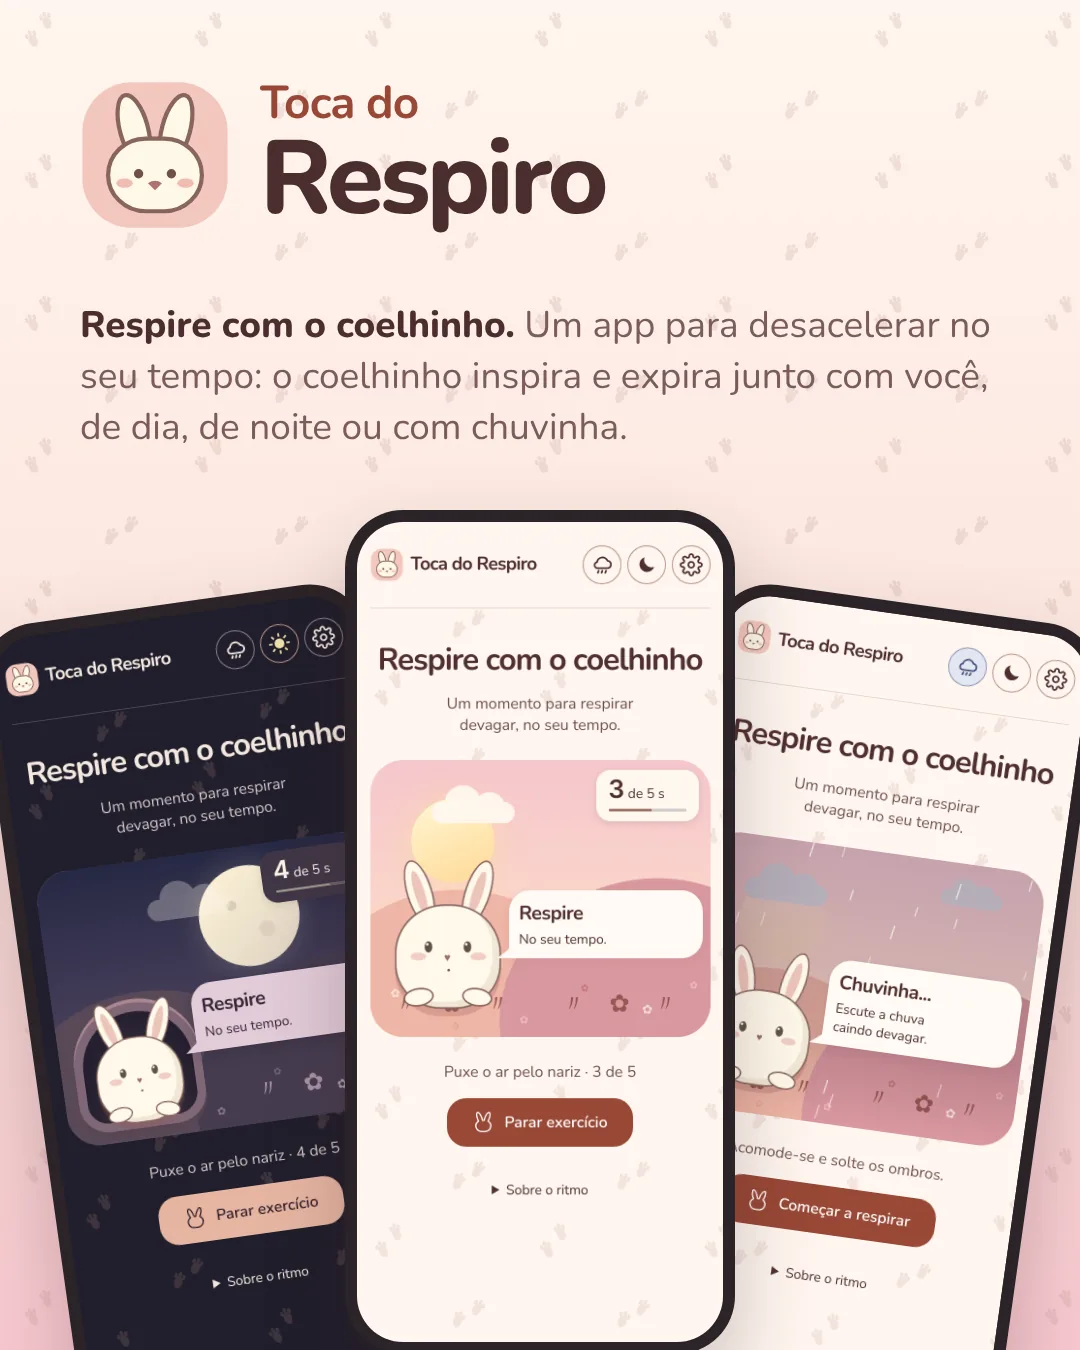
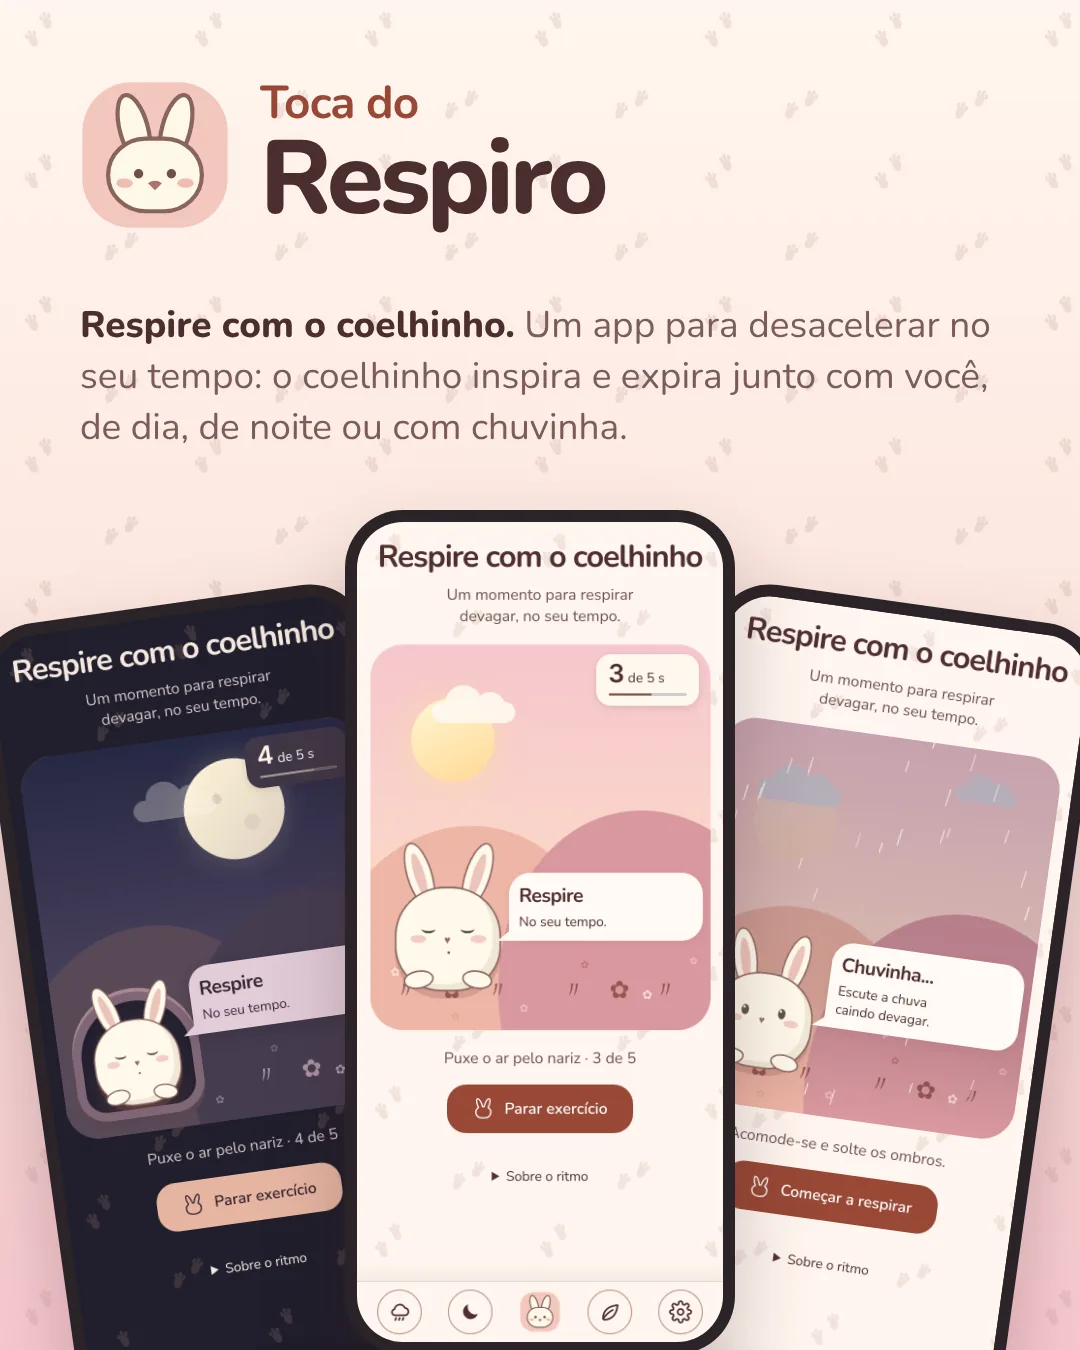
Toca do Respiro: versão nova do app (modo tranquilo, sons de fase, duração da sessão, menu embaixo)
Claude-Session: https://claude.ai/code/session_014axbJSoYuHZn8F5SUvTcGv

diff --git a/downloads/toca-do-respiro.html b/downloads/toca-do-respiro.html
@@ -138,14 +138,28 @@ main>h1,main>h1+p,footer{display:none}
 .speech h2{font-size:22px}.speech span{font-size:14px}
 .sun{left:9%;top:12%;width:110px}.moon{width:120px;right:auto;left:62%;top:8%}
 .hill{bottom:-60%}.far{bottom:-55%}
[1 lines of base64/hex data omitted]
-</div></main><dialog id="settingsDialog" aria-labelledby="settingsTitle"><div class="dialog-head"><h2 id="settingsTitle">Configurações</h2><button type="button" id="closeSettings" class="dialog-close" aria-label="Fechar">✕</button></div><div id="settings"><label class="tick-setting"><input type="checkbox" id="tickSound" checked><span class="sound-pill"><svg viewBox="0 0 24 24" width="23" height="23" fill="none" stroke="currentColor" stroke-width="1.8" stroke-linecap="round" stroke-linejoin="round" aria-hidden="true"><path d="M3 9h4l5-4v14l-5-4H3z"/><path class="waves" d="M16 8a6 6 0 0 1 0 8m3-11a10 10 0 0 1 0 14"/><path class="muted" d="m16 9 6 6m0-6-6 6"/></svg>Som do ritmo<span aria-hidden="true" class="sound-state"></span></span></label>
+}#settingsDialog .duration{border:0;padding:0;margin:12px 0 0;min-width:0}#settingsDialog .duration legend{padding:0;margin-bottom:6px}.duration-options{display:grid;grid-template-columns:repeat(3,1fr);gap:6px}.duration-options label{position:relative;cursor:pointer}.duration-options input{position:absolute;width:1px;height:1px;opacity:0}.duration-options span{display:grid;place-items:center;min-height:44px;padding:4px 6px;text-align:center;line-height:1.15;font-size:14px;font-weight:600;border:1px solid #ba9386;border-radius:16px;background:#fff8f2;color:#704438}.duration-options input:checked+span{background:#f7dfd3;border-color:#984836;box-shadow:inset 0 0 0 1px #984836}.duration-options input:focus-visible+span{outline:3px solid currentColor;outline-offset:2px}.night .duration-options span{background:#39313f;color:#f7e7df;border-color:#957d87}.night .duration-options input:checked+span{background:#57404a;border-color:#e6b5a2;box-shadow:inset 0 0 0 1px #e6b5a2}.flowers{position:absolute;inset:auto 0 0;height:52%;pointer-events:none}.fl{position:absolute;font-style:normal;line-height:1;opacity:.75;transform-origin:50% 80%}.fl.a{color:#fff6ec}.fl.b{color:#b9686a}.fl.c{color:#f7c9cf}.fl.d{color:#e8a07e}.night .fl.a{color:#cfc3d6}.night .fl.b{color:#8d6f88}.night .fl.c{color:#a98aa5}.night .fl.d{color:#9c7d8f}@media(prefers-reduced-motion:no-preference){.fl{animation:sway 4.5s ease-in-out var(--d) infinite alternate}@keyframes sway{from{rotate:-8deg}to{rotate:8deg}}}#settingsDialog .sound-options{border:0;padding:0;margin:4px 0 6px;min-width:0}#settingsDialog .sound-options legend{padding:0;margin-bottom:6px}.sound-toggles{display:grid;grid-template-columns:1fr 1fr;gap:8px}#settingsDialog .sound-toggles .tick-setting{margin:0;justify-self:stretch}.sound-toggles .sound-pill{width:100%;height:100%;padding:8px 12px;gap:8px;font-size:14px;line-height:1.2;border-radius:18px}.sound-toggles .sound-pill svg{flex:none}.pill-text{display:flex;flex-direction:column}.pill-text .sound-state{font-size:12px;opacity:.85}.quiet-btn{order:2}.quiet-btn[aria-pressed=true]{background:#f7dfd3;border-color:#b67965;color:#704438}.night .quiet-btn[aria-pressed=true]{background:#57404a;border-color:#be9693;color:#f7e7df}
+.quiet .phase-meter{display:none}.quiet .cloud-path{animation-play-state:paused}.quiet.in-session #words{display:none}.quiet.in-session #hint{visibility:hidden}.quiet .speech h2{font-size:28px}
+@media not all and (orientation:landscape) and (max-height:520px){
+header,.night header{position:fixed;top:auto;bottom:0;left:0;right:0;z-index:20;width:100%;margin:0;padding:8px max(16px,env(safe-area-inset-right,0px),calc(50% - 240px)) max(8px,env(safe-area-inset-bottom,0px)) max(16px,env(safe-area-inset-left,0px),calc(50% - 240px));border-bottom:0;border-top:1px solid #ebd5ce;clip-path:none;box-shadow:0 -6px 18px #502f3112;display:flex;flex-wrap:nowrap;justify-content:space-around;align-items:center;gap:6px}
+.night header{border-top-color:#514251;box-shadow:0 -6px 18px #0000002e}
+header .brand{flex:none;margin:0;font-size:0;gap:0;max-width:none}header .brand img{width:42px;height:42px}
+header .gear,header #nightToggle.gear{width:46px;height:46px}
+header .rain-btn{order:0}header #nightToggle.gear{order:1}header .brand{order:2}header .quiet-btn{order:3}header #openSettings{order:4}
+body{padding-bottom:calc(72px + env(safe-area-inset-bottom,0px))}
+main{padding-top:max(18px,env(safe-area-inset-top,0px))}
+main>h1+p{margin:10px 0 0}.scene{margin:18px auto}
+}
+@media not all and (orientation:landscape) and (max-height:520px){@media(max-width:600px){.scene{height:clamp(285px,47vh,420px)}}}
[1 lines of base64/hex data omitted]
+</div></main><dialog id="settingsDialog" aria-labelledby="settingsTitle"><div class="dialog-head"><h2 id="settingsTitle">Configurações</h2><button type="button" id="closeSettings" class="dialog-close" aria-label="Fechar">✕</button></div><div id="settings"><fieldset class="sound-options"><legend>Sons</legend><div class="sound-toggles"><label class="tick-setting"><input type="checkbox" id="phaseSound" checked><span class="sound-pill"><svg viewBox="0 0 24 24" width="23" height="23" fill="none" stroke="currentColor" stroke-width="1.8" stroke-linecap="round" stroke-linejoin="round" aria-hidden="true"><path d="M3 9h4l5-4v14l-5-4H3z"/><path class="waves" d="M16 8a6 6 0 0 1 0 8m3-11a10 10 0 0 1 0 14"/><path class="muted" d="m16 9 6 6m0-6-6 6"/></svg><span class="pill-text">Inspirar e expirar<span aria-hidden="true" class="sound-state"></span></span></span></label><label class="tick-setting"><input type="checkbox" id="tickSound" checked><span class="sound-pill"><svg viewBox="0 0 24 24" width="23" height="23" fill="none" stroke="currentColor" stroke-width="1.8" stroke-linecap="round" stroke-linejoin="round" aria-hidden="true"><path d="M3 9h4l5-4v14l-5-4H3z"/><path class="waves" d="M16 8a6 6 0 0 1 0 8m3-11a10 10 0 0 1 0 14"/><path class="muted" d="m16 9 6 6m0-6-6 6"/></svg><span class="pill-text">Tic por segundo<span aria-hidden="true" class="sound-state"></span></span></span></label></div></fieldset>
 
  <label for="pace">Tempo para inspirar e para expirar</label>
  <input id="pace" type="range" min="3" max="15" step="1" value="5"><output id="paceValue" for="pace">5 segundos por fase</output>
+ <fieldset class="duration"><legend>Duração da sessão</legend><div class="duration-options"><label><input type="radio" name="duration" value="1"><span>1 minuto</span></label><label><input type="radio" name="duration" value="3"><span>3 minutos</span></label><label><input type="radio" name="duration" value="0" checked><span>Tempo livre</span></label></div></fieldset>
  <label for="rainVolume">Volume da chuva</label>
  <input id="rainVolume" type="range" min="0" max="100" step="5" value="40">
-</div><button type="button" id="doneSettings" class="dialog-done">Pronto</button></dialog><footer><details id="ajuda"><summary>Sobre o ritmo</summary><p>O coelhinho dedica o mesmo tempo à inspiração e à expiração. Acompanhe até onde for confortável, sem forçar. Você pode parar quando quiser.</p><a target="_blank" rel="noopener" href="https://www.nhs.uk/mental-health/self-help/guides-tools-and-activities/breathing-exercises-for-stress/">Orientações de respiração do NHS</a></details></footer>
+</div><button type="button" id="doneSettings" class="dialog-done">Pronto</button></dialog><footer><details id="ajuda"><summary>Sobre o ritmo</summary><p>O coelhinho dedica o mesmo tempo à inspiração e à expiração. Acompanhe até onde for confortável, sem forçar. Você pode parar quando quiser.</p><p>Para respirar de olhos fechados, dois sons suaves marcam as mudanças de fase: um tom que sobe para inspirar e outro que desce para expirar. O tic por segundo pode ser desligado separadamente em Configurações.</p><a target="_blank" rel="noopener" href="https://www.nhs.uk/mental-health/self-help/guides-tools-and-activities/breathing-exercises-for-stress/">Orientações de respiração do NHS</a></details></footer>
 <script>
 const rabbit=document.querySelector('.rabbit'), phase=document.querySelector('#phase'), hint=document.querySelector('#hint'), button=document.querySelector('#toggle');
 const toggleLabel = document.querySelector("#toggleLabel");
@@ -204,10 +218,13 @@ const beat = document.querySelector('#beat');
 const beatLimit = document.querySelector('#beatLimit');
 const beatBar = document.querySelector('#beatBar');
 const tickSound = document.querySelector('#tickSound');
+const phaseSound = document.querySelector('#phaseSound');
 try { tickSound.checked = localStorage.getItem('toca.sound') !== 'off'; } catch {}
+try { phaseSound.checked = localStorage.getItem('toca.phaseSound') !== 'off'; } catch {}
 let audio;
+function anySound() { return tickSound.checked || phaseSound.checked; }
 function enableAudio() {
- if (!tickSound.checked || !window.AudioContext) return;
+ if (!anySound() || !window.AudioContext) return;
  try {
   audio ??= new AudioContext();
   if (audio.state !== 'running') audio.resume().catch(() => {});
@@ -217,13 +234,39 @@ tickSound.onchange = () => {
  enableAudio();
  try { localStorage.setItem('toca.sound', tickSound.checked ? 'on' : 'off'); } catch {}
 };
+phaseSound.onchange = () => {
+ enableAudio();
+ try { localStorage.setItem('toca.phaseSound', phaseSound.checked ? 'on' : 'off'); } catch {}
+};
+// Tom suave que sobe (inspirar) ou desce (expirar), para acompanhar de olhos fechados.
+function playPhaseTone(rising) {
+ if (!phaseSound.checked || !audio) return;
+ try {
+  const t = audio.currentTime + .01, low = 293.66, high = 440, glide = .75, end = 1.15;
+  [1, 2].forEach((harmonic, i) => {
+   const osc = audio.createOscillator(), gain = audio.createGain();
+   osc.type = 'sine';
+   osc.frequency.setValueAtTime((rising ? low : high) * harmonic, t);
+   osc.frequency.exponentialRampToValueAtTime((rising ? high : low) * harmonic, t + glide);
+   const peak = i ? .012 : .06;
+   gain.gain.setValueAtTime(.0001, t);
+   gain.gain.exponentialRampToValueAtTime(peak, t + .12);
+   gain.gain.setValueAtTime(peak, t + glide - .15);
+   gain.gain.exponentialRampToValueAtTime(.0001, t + end);
+   osc.connect(gain); gain.connect(audio.destination);
+   osc.onended = () => { osc.disconnect(); gain.disconnect(); };
+   osc.start(t); osc.stop(t + end + .02);
+  });
+ } catch {}
+}
 function playTick(countdownSeconds = 0) {
- if (!tickSound.checked || !audio) return;
+ if (!audio || !(countdownSeconds ? anySound() : tickSound.checked)) return;
+ try {
  const time = audio.currentTime;
  const tone = audio.createOscillator();
  const volume = audio.createGain();
  const duration = countdownSeconds ? .28 : .055;
- const pitch = countdownSeconds ? [0, 523.25, 440, 349.23][countdownSeconds] : 820;
+ const pitch = countdownSeconds ? ([0, 523.25, 440, 349.23][countdownSeconds] || 523.25) : 820;
  tone.frequency.setValueAtTime(pitch, time);
  if (!countdownSeconds) tone.frequency.exponentialRampToValueAtTime(540, time + .045);
  volume.gain.setValueAtTime(.0001, time);
@@ -234,12 +277,43 @@ function playTick(countdownSeconds = 0) {
  tone.onended = () => { tone.disconnect(); volume.disconnect(); };
  tone.start(time);
  tone.stop(time + duration + .005);
+ } catch {}
 }
-let lastSecond = -1;
+const durationInputs = [...document.querySelectorAll('input[name=duration]')];
+try {
+ const savedDuration = localStorage.getItem('toca.duration');
+ const match = durationInputs.find(input => input.value === savedDuration);
+ if (match) match.checked = true;
+} catch {}
+durationInputs.forEach(input => input.onchange = () => {
+ try { localStorage.setItem('toca.duration', input.value); } catch {}
+});
+function chosenMinutes() {
+ return Number(durationInputs.find(input => input.checked)?.value || 0);
+}
+let sessionMs = 0, finishing = false;
+function playEndChime() {
+ if (!anySound() || !audio) return;
+ try {
+  const t0 = audio.currentTime + .05;
+  [523.25, 659.25, 783.99].forEach((freq, i) => {
+   const t = t0 + i * .22, osc = audio.createOscillator(), gain = audio.createGain();
+   osc.type = 'sine';
+   osc.frequency.setValueAtTime(freq, t);
+   gain.gain.setValueAtTime(.0001, t);
+   gain.gain.exponentialRampToValueAtTime(.05, t + .03);
+   gain.gain.exponentialRampToValueAtTime(.0001, t + 1.2);
+   osc.connect(gain); gain.connect(audio.destination);
+   osc.onended = () => { osc.disconnect(); gain.disconnect(); };
+   osc.start(t); osc.stop(t + 1.25);
+  });
+ } catch {}
+}
+let lastSecond = -1, phaseToned = false;
 let cycle = 0;
 function tick(now){
  if (countdownEnd !== null) {
-  const seconds = Math.ceil((countdownEnd - now) / 1000);
+  const seconds = Math.min(3, Math.ceil((countdownEnd - now) / 1000));
   if (seconds > 0) {
    const title = String(seconds);
    if (countdown.textContent !== title) { countdown.textContent = title; playTick(seconds); }
@@ -248,23 +322,33 @@ function tick(now){
   }
   hideCountdown();
   start = now;
+  sessionMs = chosenMinutes() * 60000;
+  finishing = false;
   rabbit.classList.add('breathing');
+  document.documentElement.classList.add('in-session');
+  rabbit.classList.remove('awake');
   toggleLabel.textContent = 'Parar exercício';
  }
  const elapsed=Math.max(0,now-start)%(2*phaseMs);
  const inhale=elapsed<phaseMs;
- const title=inhale?'Respire':'Expire';
+ const title=inhale?(quiet?'Inspire':'Respire'):'Expire';
+ if (sessionMs && now - start >= sessionMs) finishing = true;
+ if (finishing && inhale && phase.textContent === 'Expire') { stopSession(true); return; }
  if (phase.textContent !== title) {
   if (inhale && phase.textContent === 'Expire') cycle++;
   const lines = inhale ? phrases.inhale : phrases.exhale;
   phase.textContent = title;
   words.textContent = lines[cycle % lines.length];
+  playPhaseTone(inhale);
+  phaseToned = true;
  }
  const second = 1 + Math.floor(elapsed % phaseMs / 1000);
  if (second !== lastSecond) {
   lastSecond = second;
-  playTick();
+  // Na virada de fase o tom de inspirar/expirar substitui o tic.
+  if (!(phaseToned && phaseSound.checked)) playTick();
  }
+ phaseToned = false;
  const secondsPerPhase = phaseMs / 1000;
  const instruction = (inhale ? 'Puxe o ar pelo nariz' : 'Solte o ar pela boca');
  const accessibleHint = instruction + ' · ' + second + ' de ' + secondsPerPhase;
@@ -288,6 +372,20 @@ function tick(now){
  });
  frame=requestAnimationFrame(tick);
 }
+function stopSession(completed) {
+ hideCountdown();
+ finishing = false;
+ document.documentElement.classList.remove('in-session');
+ meter.hidden = true; cancelAnimationFrame(frame);rabbit.classList.add('awake');rabbit.classList.remove('breathing');rabbit.style.removeProperty('--mouth');puffs.forEach(p=>p.style.opacity=0);start=null;rabbit.style.removeProperty('--breath');rabbit.style.transform='none';hint.textContent='Volte a respirar naturalmente.';toggleLabel.textContent='Respirar de novo';
+ if (completed) {
+  phase.textContent = 'Terminamos por aqui.';
+  words.textContent = 'Pode voltar ao seu ritmo.';
+  playEndChime();
+ } else {
+  phase.textContent = 'No seu tempo';
+  words.textContent = ['Estou aqui se quiser recomeçar.','Que bom que você tirou esse tempo.','Você cuidou de si agora. Isso importa.','Volte sempre que precisar.'][Math.floor(Math.random()*4)];
+ }
+}
 button.onclick=()=>{
  if (start === null && countdownEnd === null) {
   const now = performance.now();
@@ -302,8 +400,7 @@ button.onclick=()=>{
   tick(now);
   return;
  }
- hideCountdown();
- meter.hidden = true; cancelAnimationFrame(frame);rabbit.classList.add('awake');rabbit.classList.remove('breathing');rabbit.style.removeProperty('--mouth');puffs.forEach(p=>p.style.opacity=0);start=null;rabbit.style.removeProperty('--breath');words.textContent=['Estou aqui se quiser recomeçar.','Que bom que você tirou esse tempo.','Você cuidou de si agora. Isso importa.','Volte sempre que precisar.'][Math.floor(Math.random()*4)];rabbit.style.transform='none';phase.textContent='No seu tempo';hint.textContent='Volte a respirar naturalmente.';toggleLabel.textContent='Respirar de novo';
+ stopSession(false);
 };
 
 const nightToggle = document.querySelector('#nightToggle');
@@ -437,4 +534,25 @@ if (!reduced.matches) {
  setTimeout(finishOpening, 1300);
  button.addEventListener('click', finishOpening, { once: true });
 }const settingsDialog=document.querySelector('#settingsDialog');document.querySelector('#openSettings').onclick=()=>settingsDialog.showModal();document.querySelector('#closeSettings').onclick=()=>settingsDialog.close();document.querySelector('#doneSettings').onclick=()=>settingsDialog.close();settingsDialog.addEventListener('click',e=>{if(e.target===settingsDialog)settingsDialog.close();});
+
+const quietToggle=document.querySelector('#quietToggle');
+let quiet=false;
+function setQuiet(on){
+ quiet=on;
+ document.documentElement.classList.toggle('quiet',on);
+ quietToggle.setAttribute('aria-pressed',String(on));
+ quietToggle.setAttribute('aria-label',on?'Desligar modo tranquilo':'Ligar modo tranquilo');
+ // Troca a palavra na hora, sem reiniciar a fase.
+ if(start!==null&&(phase.textContent==='Respire'||phase.textContent==='Inspire'))phase.textContent=on?'Inspire':'Respire';
+}
+try{quiet=localStorage.getItem('toca.quiet')==='true';}catch{}
+setQuiet(quiet);
+quietToggle.onclick=()=>{
+ setQuiet(!quiet);
+ try{localStorage.setItem('toca.quiet',String(quiet));}catch{}
+ if(start===null&&countdownEnd===null){
+  if(quiet){phase.textContent='Modo tranquilo';words.textContent='Sem números. Só eu e a palavra.';}
+  else{phase.textContent='Vamos respirar?';words.textContent='Eu acompanho você.';}
+ }
+};
 </script></html>

diff --git a/data.js b/data.js
@@ -150,13 +150,13 @@ window.SITE = {
     toca: {
       name: 'Toca do Respiro', eyebrow: 'Case · App mobile',
       who: 'Respire com o coelhinho.',
-      lede: 'O Toca do Respiro nasceu dentro de casa. Criei o app para a minha namorada, que convive com o <strong>TAG (Transtorno de Ansiedade Generalizada)</strong>, para ter um lugar calmo nas horas em que a ansiedade aperta. No caminho percebi que ele podia ajudar muita gente que passa pelo mesmo, e transformei o projeto num <strong>app gratuito, sem anúncios e sem nenhuma monetização</strong>.<br><br>A ideia é simples: um <strong>coelhinho que respira junto</strong> com você. A barriga cresce na inspiração, o ar sai em nuvenzinhas na expiração e frases curtas acolhem a cada ciclo, lembrando que está tudo bem ir no seu tempo. Não tem cadastro, metas nem cobrança: só respirar.<br><br>Dá para trocar o dia pela <strong>noite</strong> (o coelhinho vai para a toca), ligar uma <strong>chuvinha com som</strong> e ajustar de 3 a 15 segundos por fase. Cores suaves, letras arredondadas e sons gerados no próprio app foram escolhidos para acalmar, não para prender a atenção. Feito para o celular Android, também funciona com a tela deitada.',
-      facts: [['Cliente', 'Projeto pessoal · app gratuito'], ['Para quem', 'Pessoas que convivem com ansiedade'], ['Plataformas', 'App mobile (Android) e web'], ['Entregas', 'Marca e mascote, cena animada de dia e de noite, exercício guiado com contagem, chuva com som gerado no app, configurações de ritmo e som, versão deitada'], ['Ano', '2026']],
+      lede: 'O Toca do Respiro nasceu dentro de casa. Criei o app para a minha namorada, que convive com o <strong>TAG (Transtorno de Ansiedade Generalizada)</strong>, para ter um lugar calmo nas horas em que a ansiedade aperta. No caminho percebi que ele podia ajudar muita gente que passa pelo mesmo, e transformei o projeto num <strong>app gratuito, sem anúncios e sem nenhuma monetização</strong>.<br><br>A ideia é simples: um <strong>coelhinho que respira junto</strong> com você. A barriga cresce na inspiração, o ar sai em nuvenzinhas na expiração e frases curtas acolhem a cada ciclo, lembrando que está tudo bem ir no seu tempo. Não tem cadastro, metas nem cobrança: só respirar.<br><br>Dá para trocar o dia pela <strong>noite</strong> (o coelhinho vai para a toca), ligar uma <strong>chuvinha com som</strong>, ajustar de 3 a 15 segundos por fase e escolher sessões de 1 ou 3 minutos. O <strong>modo tranquilo</strong> tira os textos da tela durante o exercício, e dois tons suaves (um que sobe para inspirar e outro que desce para expirar) permitem respirar <strong>de olhos fechados</strong>. Cores suaves, letras arredondadas e sons gerados no próprio app foram escolhidos para acalmar, não para prender a atenção. Feito para o celular Android, também funciona com a tela deitada.',
+      facts: [['Cliente', 'Projeto pessoal · app gratuito'], ['Para quem', 'Pessoas que convivem com ansiedade'], ['Plataformas', 'App mobile (Android) e web'], ['Entregas', 'Marca e mascote, cena animada de dia e de noite, exercício guiado com contagem, sessões de 1 ou 3 minutos, modo tranquilo, sons para respirar de olhos fechados, chuva com som gerado no app, versão deitada'], ['Ano', '2026']],
       bg: '#4c2e30', accent: '#984836', status: '#fff6ef', brand: 'marca',
       actions: [['Baixar o app', 'downloads/toca-do-respiro.html', 'download'], ['Usar online', 'downloads/toca-do-respiro.html', 'external']],
       actionsNote: 'Gratuito e sem anúncios. O arquivo abre em qualquer navegador, no celular ou no computador, e funciona sem internet.',
       phone: [
-        ['inicio', 'Boas-vindas', 'Na primeira visita o coelhinho cumprimenta e convida para respirar.'],
+        ['inicio', 'Boas-vindas', 'Na primeira visita o coelhinho cumprimenta e convida para respirar. Os botões ficam embaixo, ao alcance do polegar.'],
         ['contagem', 'Contagem', 'Três segundos para se acomodar antes de começar.'],
         ['respire', 'Respire', 'O coelhinho enche a barriga e o contador marca cada segundo.'],
         ['expire', 'Expire', 'O ar sai pela boca em nuvenzinhas, com uma frase de apoio.'],
@@ -164,7 +164,9 @@ window.SITE = {
         ['chuva', 'Chuvinha', 'O céu fecha, a chuva cai na cena e o som de chuva começa devagar.'],
         ['noite', 'Modo noite', 'A lua sobe e o coelhinho vai para a toca.'],
         ['noite-respire', 'Respirar à noite', 'O mesmo exercício com as cores da noite.'],
-        ['configuracoes', 'Configurações', 'Som do ritmo, segundos por fase e volume da chuva.']
+        ['tranquilo', 'Modo tranquilo', 'Durante o exercício fica só o coelhinho e uma palavra: inspire ou expire.'],
+        ['terminamos', 'Fim da sessão', 'Ao fim de 1 ou 3 minutos, um acorde suave avisa que a sessão terminou.'],
+        ['configuracoes', 'Configurações', 'Sons de inspirar e expirar, tic por segundo, tempo por fase, duração da sessão e volume da chuva.']
       ]
     },
     precisa: {

diff --git a/deluccky.html b/deluccky.html
@@ -126,7 +126,7 @@
 </dialog>
 
 <script src="https://cdnjs.cloudflare.com/ajax/libs/three.js/r128/three.min.js" defer></script>
-<script src="data.js?v=20261111a" defer></script>
+<script src="data.js?v=20261112a" defer></script>
 <script src="app.js?v=20261111a" defer></script>
 <script src="deluccky.js?v=20261111a" defer></script>
 </body>

diff --git a/app.html b/app.html
@@ -143,7 +143,7 @@
 </dialog>
 
 <script src="https://cdnjs.cloudflare.com/ajax/libs/three.js/r128/three.min.js" defer></script>
-<script src="data.js?v=20261111a" defer></script>
+<script src="data.js?v=20261112a" defer></script>
 <script src="appcase.js?v=20261111a" defer></script>
 <script src="app.js?v=20261111a" defer></script>
 </body>

diff --git a/blocko.html b/blocko.html
@@ -404,7 +404,7 @@
 </dialog>
 
 <script src="https://cdnjs.cloudflare.com/ajax/libs/three.js/r128/three.min.js" defer></script>
-<script src="data.js?v=20261111a" defer></script>
+<script src="data.js?v=20261112a" defer></script>
 <script src="app.js?v=20261111a" defer></script>
 <script src="blocko.js?v=20261111a" defer></script>
 </body>

diff --git a/sobre.html b/sobre.html
@@ -132,7 +132,7 @@
 </dialog>
 
 <script src="https://cdnjs.cloudflare.com/ajax/libs/three.js/r128/three.min.js" defer></script>
-<script src="data.js?v=20261111a" defer></script>
+<script src="data.js?v=20261112a" defer></script>
 <script src="app.js?v=20261111a" defer></script>
 <script>
 (() => {

diff --git a/projetos.html b/projetos.html
@@ -67,7 +67,7 @@
 </dialog>
 
 <script src="https://cdnjs.cloudflare.com/ajax/libs/three.js/r128/three.min.js" defer></script>
-<script src="data.js?v=20261111a" defer></script>
+<script src="data.js?v=20261112a" defer></script>
 <script src="app.js?v=20261111a" defer></script>
 </body>
 </html>

diff --git a/index.html b/index.html
@@ -155,5 +155,5 @@
 </dialog>
 
 <script src="https://cdnjs.cloudflare.com/ajax/libs/three.js/r128/three.min.js" defer></script>
-<script src="data.js?v=20261111a" defer></script>
+<script src="data.js?v=20261112a" defer></script>
 <script src="app.js?v=20261111a" defer></script>
